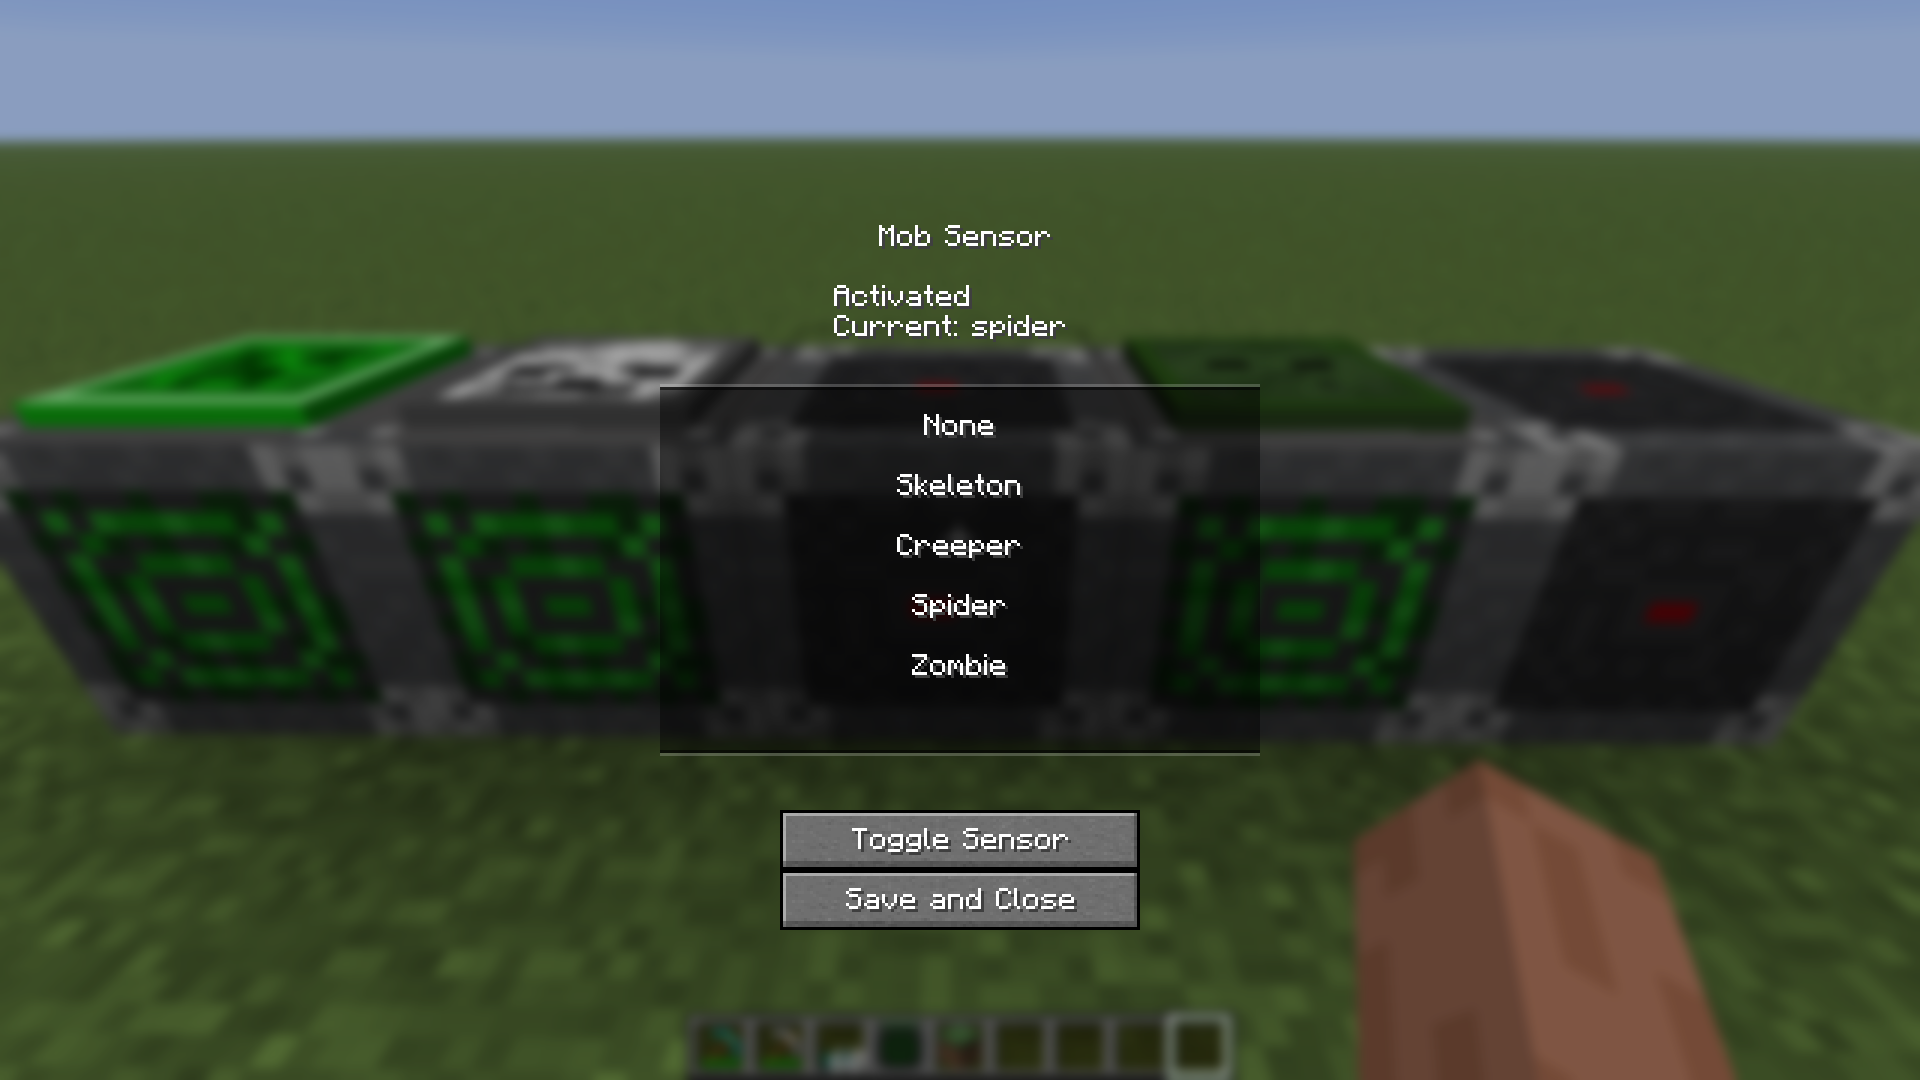
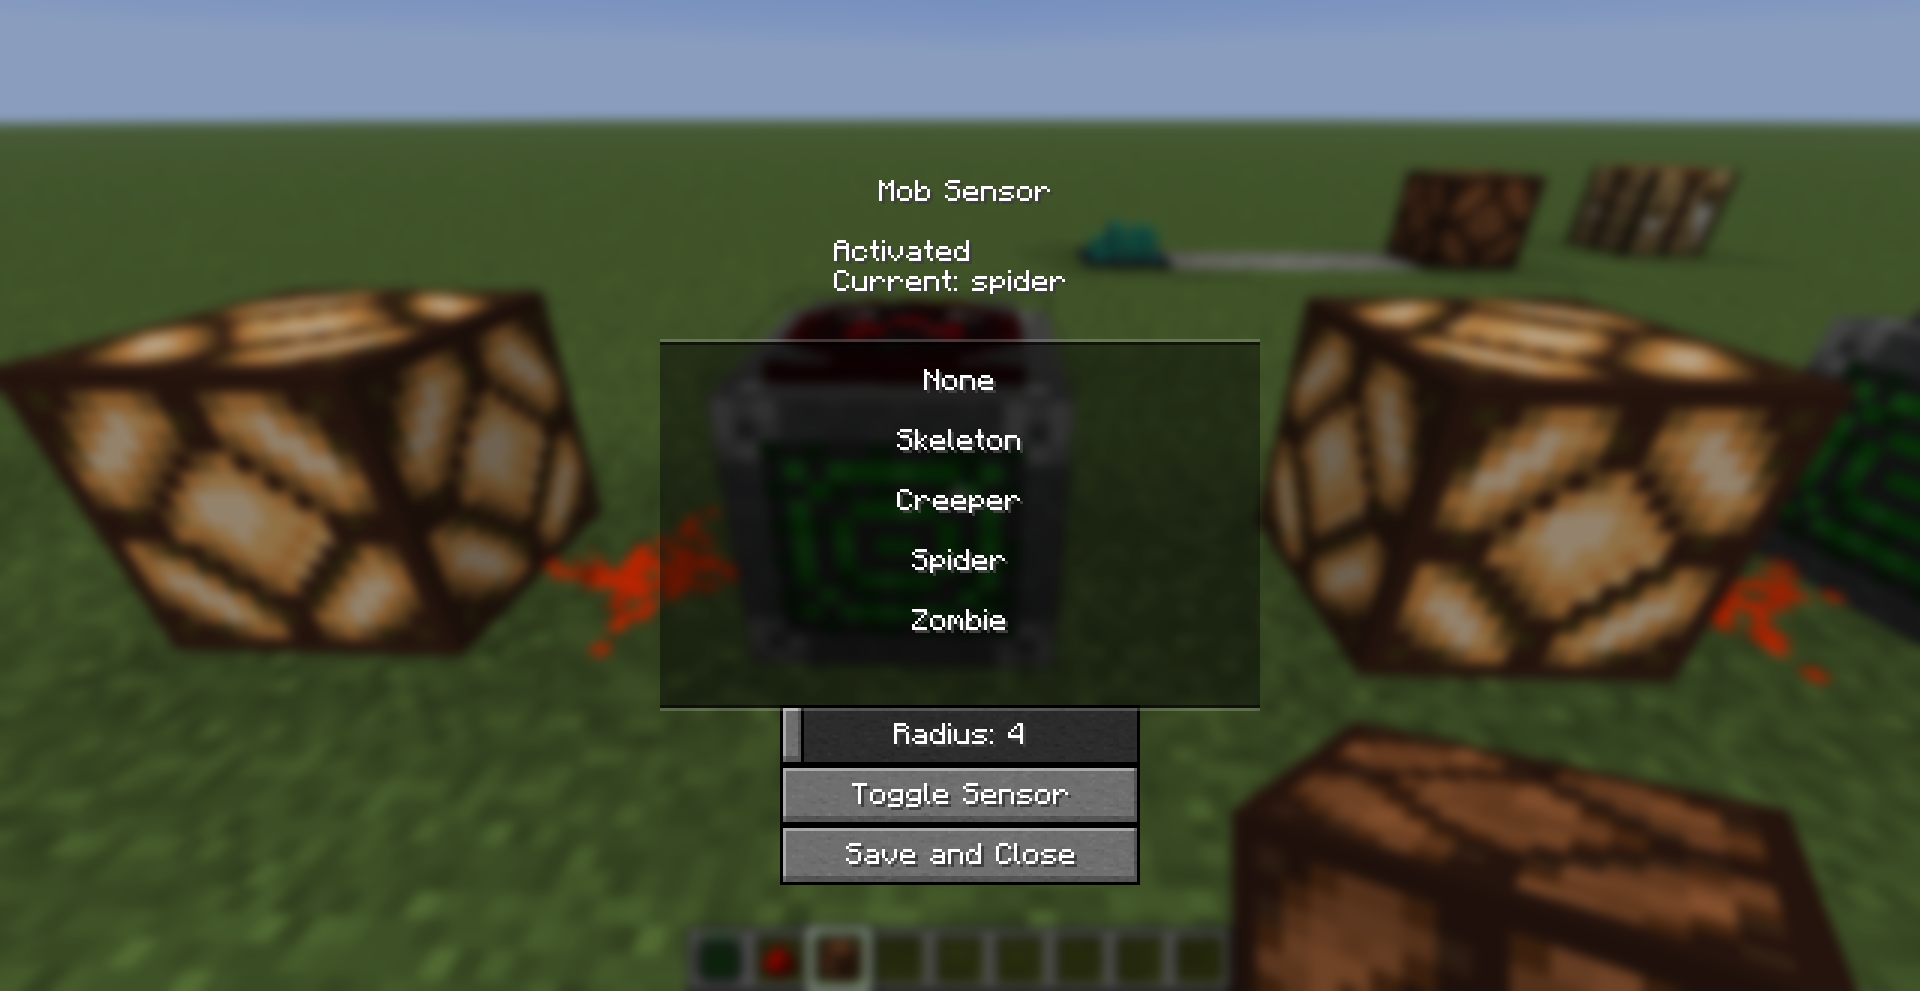
Added mob sensor custom radius slider

diff --git a/src/client/java/io/github/jeanxx12/sensicraft/screens/mobsensor/MobSensorScreen.java b/src/client/java/io/github/jeanxx12/sensicraft/screens/mobsensor/MobSensorScreen.java
@@ -1,6 +1,7 @@
 package io.github.jeanxx12.sensicraft.screens.mobsensor;
 
 import io.github.jeanxx12.sensicraft.block.MobSensorBlock;
+import net.minecraft.client.gui.components.AbstractSliderButton;
 import net.minecraft.client.gui.components.Button;
 import net.minecraft.client.gui.components.StringWidget;
 import net.minecraft.client.gui.screens.Screen;
@@ -21,6 +22,8 @@ public class MobSensorScreen extends Screen {
     private String activated;
     public int activationvalue;
     private final MobSensorBlock block;
+    public int detectionradius;
+    private RadiusSlider radiusSlider;
 
     public MobSensorScreen(Component title, MobSensorBE blockEntity, MobSensorBlock block) {
         super(title);
@@ -30,6 +33,8 @@ public class MobSensorScreen extends Screen {
         this.activationvalue = state.getValue(MobSensorBlock.ACTIVE) ? 1 : 0;
         this.activated = this.activationvalue == 1 ? "Activated" : "Deactivated";
         this.block = block;
+        this.detectionradius = state.getValue(MobSensorBlock.RADIUS);
+
     }
 
     @Override
@@ -41,7 +46,8 @@ public class MobSensorScreen extends Screen {
                     new MobSensorUpdatePayload(
                             blockEntity.getBlockPos(),
                             selectedMob,
-                            activationvalue == 1
+                            activationvalue == 1,
+                            detectionradius
                     )
             );
             this.onClose();
@@ -69,6 +75,15 @@ public class MobSensorScreen extends Screen {
 
         this.addRenderableWidget(activatebutton);
 
+        double sliderValue = (this.detectionradius - 4.0) / 28.0;
+
+        this.radiusSlider = new RadiusSlider(
+                this.width /2-60, this.height /2 +70, 120,20,
+                sliderValue
+        );
+
+        this.addRenderableWidget(this.radiusSlider);
+
         MobDropdown dropdown = new MobDropdown(this.minecraft, 200, 120, this.width / 2 - 100, this.height / 2 - 50, List.of("None", "Skeleton", "Creeper", "Spider", "Zombie"), (mob) -> {
             this.selectedMob = MobSensorBlock.MobType.valueOf(mob.toUpperCase());
             this.current.setMessage(Component.literal("Current: " + mob));
@@ -81,8 +96,37 @@ public class MobSensorScreen extends Screen {
 
     }
 
+
     @Override
     public boolean isPauseScreen() {
         return false;
+    }
+
+    private class RadiusSlider extends AbstractSliderButton {
+
+        public RadiusSlider(int x, int y, int width, int height, double value) {
+            super(
+                    x, y, width, height,
+                    Component.literal("Radius: " + detectionradius),
+                    value
+            );
+        }
+
+        public void updateRadius(double radius){
+            this.value = (radius - 4.0) / 28.0;
+            this.updateMessage();
+        }
+
+        @Override
+        protected void updateMessage(){
+            double radius = 4 + this.value *28.0;
+            this.setMessage(Component.literal("Radius: " + Math.round(radius)));
+        }
+
+        @Override
+        protected void applyValue() {
+            double radius = 4 + this.value *28.0;
+            detectionradius = (int) Math.round(radius);
+        }
     }
 }

diff --git a/src/main/java/io/github/jeanxx12/sensicraft/block/MobSensorBlock.java b/src/main/java/io/github/jeanxx12/sensicraft/block/MobSensorBlock.java
@@ -4,7 +4,6 @@ import com.mojang.serialization.MapCodec;
 import io.github.jeanxx12.sensicraft.blockentity.MobSensorBE;
 import net.minecraft.core.BlockPos;
 import net.minecraft.core.Direction;
-import net.minecraft.network.chat.Component;
 import net.minecraft.server.level.ServerLevel;
 import net.minecraft.util.RandomSource;
 import net.minecraft.util.StringRepresentable;
@@ -23,11 +22,10 @@ import net.minecraft.world.level.block.state.BlockState;
 import net.minecraft.world.level.block.state.StateDefinition;
 import net.minecraft.world.level.block.state.properties.BooleanProperty;
 import net.minecraft.world.level.block.state.properties.EnumProperty;
+import net.minecraft.world.level.block.state.properties.IntegerProperty;
 import net.minecraft.world.phys.AABB;
 import net.minecraft.world.phys.BlockHitResult;
 import org.jspecify.annotations.Nullable;
-
-import java.util.Random;
 
 public class MobSensorBlock extends BaseEntityBlock {
 
@@ -36,6 +34,7 @@ public class MobSensorBlock extends BaseEntityBlock {
         registerDefaultState(
                 stateDefinition.any().setValue(ACTIVE, false)
                         .setValue(MOB, MobType.NONE)
+                        .setValue(RADIUS, 8)
         );
     }
 
@@ -58,6 +57,8 @@ public class MobSensorBlock extends BaseEntityBlock {
 
     public static final BooleanProperty ACTIVE = BooleanProperty.create("active");
 
+    public static final IntegerProperty RADIUS = IntegerProperty.create("radius", 4, 32);
+
     public static final EnumProperty<MobType> MOB =
             EnumProperty.create("mob", MobType.class);
 
@@ -71,14 +72,16 @@ public class MobSensorBlock extends BaseEntityBlock {
 
     @Override
     protected void createBlockStateDefinition(StateDefinition.Builder<Block, BlockState> builder) {
-        builder.add(ACTIVE, MOB);
+        builder.add(ACTIVE, MOB, RADIUS);
 
     }
+
     @Override
     protected void tick(BlockState state, ServerLevel level, BlockPos pos, RandomSource random){
         level.updateNeighborsAt(pos, this);
         level.scheduleTick(pos,this,1);
     }
+
     @Override
     protected void onPlace(
             BlockState state, Level level, BlockPos pos, BlockState oldState, boolean movedByPiston
@@ -89,15 +92,21 @@ public class MobSensorBlock extends BaseEntityBlock {
             level.scheduleTick(pos,this,1);
         }
     }
+
     @Override
     protected int getSignal(BlockState state, BlockGetter level, BlockPos pos, Direction direction){
         if (!(level instanceof Level world)) {
             return 0;
         }
+
         if (!state.getValue(ACTIVE)) {
             return 0;
         }
-        AABB detectionArea = new AABB(pos).inflate(8);
+
+        double radius = state.getValue(RADIUS);
+
+        AABB detectionArea = new AABB(pos).inflate(radius);
+
         return switch (state.getValue(MOB)){
             case CREEPER -> !world.getEntitiesOfClass(Creeper.class, detectionArea).isEmpty() ?15:0;
             case SKELETON -> !world.getEntitiesOfClass(Skeleton.class, detectionArea).isEmpty() ?15:0;
@@ -106,4 +115,4 @@ public class MobSensorBlock extends BaseEntityBlock {
             case NONE -> 0;
         };
     }
-    }
+}

diff --git a/src/main/java/io/github/jeanxx12/sensicraft/network/MobSensorUpdatePayload.java b/src/main/java/io/github/jeanxx12/sensicraft/network/MobSensorUpdatePayload.java
@@ -12,7 +12,7 @@ import net.minecraft.resources.Identifier;
 
 import java.util.stream.Stream;
 
-public record MobSensorUpdatePayload(BlockPos pos, MobSensorBlock.MobType mob, boolean active) implements CustomPacketPayload {
+public record MobSensorUpdatePayload(BlockPos pos, MobSensorBlock.MobType mob, boolean active, double radius) implements CustomPacketPayload {
     public static final Identifier ID=
             Identifier.fromNamespaceAndPath(Sensicraft.MOD_ID,"mob_sensor_update");
     public static final Type<MobSensorUpdatePayload>TYPE =
@@ -25,7 +25,9 @@ public record MobSensorUpdatePayload(BlockPos pos, MobSensorBlock.MobType mob, b
                     payload -> payload.mob().getSerializedName(),
                     ByteBufCodecs.BOOL,
                     MobSensorUpdatePayload::active,
-                    (pos, mobName, active) -> new MobSensorUpdatePayload(pos, MobSensorBlock.MobType.valueOf(mobName.toUpperCase()), active)
+                    ByteBufCodecs.DOUBLE,
+                    MobSensorUpdatePayload::radius,
+                    (pos, mobName, active,radius) -> new MobSensorUpdatePayload(pos, MobSensorBlock.MobType.valueOf(mobName.toUpperCase()), active, radius)
             );
     @Override
     public Type<? extends CustomPacketPayload> type() {

diff --git a/src/main/java/io/github/jeanxx12/sensicraft/Sensicraft.java b/src/main/java/io/github/jeanxx12/sensicraft/Sensicraft.java
@@ -49,7 +49,8 @@ public class Sensicraft implements ModInitializer {
                             payload.pos(),
                             level.getBlockState(payload.pos())
                                     .setValue(MobSensorBlock.MOB, mob)
-                                    .setValue(MobSensorBlock.ACTIVE, active),3
+                                    .setValue(MobSensorBlock.ACTIVE, active)
+                                    .setValue(MobSensorBlock.RADIUS, (int) payload.radius()),3
                     );
                     MobSensorBE be = (MobSensorBE) level.getBlockEntity(payload.pos());
 
